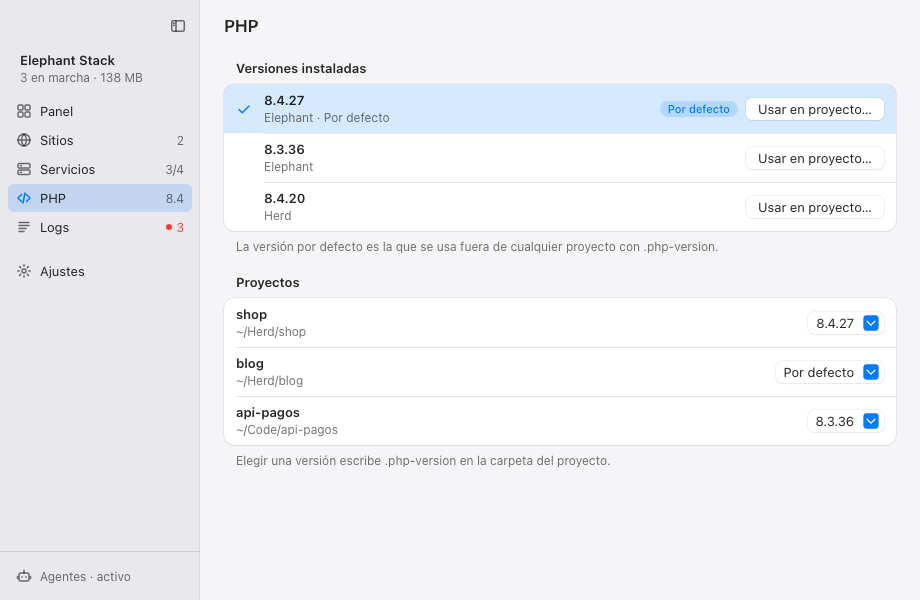
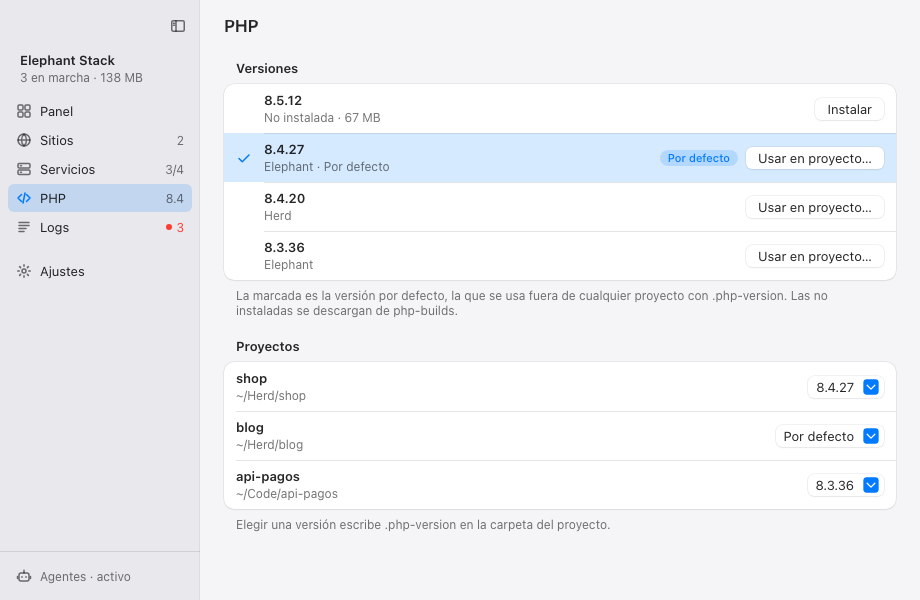
Une instaladas y disponibles en una sola lista de versiones de PHP
La vista PHP tenía dos listas. Ahora hay una, ordenada de la versión más
reciente a la más antigua: las instaladas conservan «Por defecto» y «Usar en
proyecto…», y las de php-builds que faltan solo muestran «Instalar». Una
release ya instalada no se repite. La fusión vive en src/lib/php-versions.ts,
con tests. Las capturas de referencia usan un catálogo de ejemplo.

diff --git a/src/views/Php.svelte b/src/views/Php.svelte
@@ -28,7 +28,7 @@
     versionForProject,
   } from "../lib/stores/app.svelte";
   import { formatBytes } from "../lib/format";
-  import { go } from "../lib/router.svelte";
+  import { mergePhpVersions } from "../lib/php-versions";
   import type { Catalog } from "../lib/bindings/Catalog";
   import type { Project } from "../lib/bindings/Project";
   import type { Snapshot } from "../lib/bindings/Snapshot";
@@ -111,7 +111,12 @@
   });
 
   const releases = $derived(catalog?.php ?? []);
-  const installedIds = $derived(new Set(versions.map((v) => v.id)));
+  const entries = $derived(mergePhpVersions(versions, releases));
+  const footer = $derived(
+    catalog?.offline
+      ? "Sin conexión: las versiones no instaladas son las de la última consulta."
+      : "La marcada es la versión por defecto, la que se usa fuera de cualquier proyecto con .php-version. Las no instaladas se descargan de php-builds.",
+  );
 
   async function download(version: string) {
     downloading[version] = undefined;
@@ -141,38 +146,70 @@
     <div class="content">
       {#if !snapshot}
         <Skeleton lines={4} />
-      {:else if versions.length === 0}
-        <EmptyState
-          icon="php"
-          title="No hay ninguna versión de PHP"
-          message="Instala una de las versiones disponibles de abajo o usa el asistente."
-          action={{ label: "Abrir el asistente", onclick: () => go("#/asistente") }}
-        />
       {:else}
-        <Group
-          title="Versiones instaladas"
-          footer="La versión por defecto es la que se usa fuera de cualquier proyecto con .php-version."
-        >
-          {#each versions as v (v.key)}
-            {@const active = v.key === activeKey}
-            <Row
-              title={v.id}
-              subtitle={active ? `${v.source} · Por defecto` : v.source}
-              selected={active}
-              onactivate={() => void makeDefault(v)}
-            >
-              {#snippet leading()}
-                <span class="mark" class:on={active}><Icon name="check" /></span>
-              {/snippet}
-              {#snippet trailing()}
-                {#if active}<Badge tone="accent" label="Por defecto" />{/if}
-                <Button onclick={() => void useInProject(v)}>
-                  Usar en proyecto…<span class="visually-hidden"> (PHP {v.id})</span>
-                </Button>
-              {/snippet}
-            </Row>
-          {/each}
-        </Group>
+        {#if entries.length === 0 && !catalogLoading}
+          <EmptyState
+            icon="php"
+            title="No hay ninguna versión de PHP"
+            message="No hay versiones instaladas y no se ha podido consultar las disponibles."
+            action={{ label: "Reintentar", onclick: () => void loadCatalog() }}
+          />
+        {:else}
+          <Group title="Versiones" footer={footer}>
+            {#each entries as e (e.key)}
+              {#if e.kind === "installed"}
+                {@const v = e.version}
+                {@const active = v.key === activeKey}
+                <Row
+                  title={v.id}
+                  subtitle={active ? `${v.source} · Por defecto` : v.source}
+                  selected={active}
+                  onactivate={() => void makeDefault(v)}
+                >
+                  {#snippet leading()}
+                    <span class="mark" class:on={active}><Icon name="check" /></span>
+                  {/snippet}
+                  {#snippet trailing()}
+                    {#if active}<Badge tone="accent" label="Por defecto" />{/if}
+                    <Button onclick={() => void useInProject(v)}>
+                      Usar en proyecto…<span class="visually-hidden"> (PHP {v.id})</span>
+                    </Button>
+                  {/snippet}
+                </Row>
+              {:else}
+                {@const r = e.release}
+                <Row title={r.version} subtitle={`No instalada · ${formatBytes(r.size)}`}>
+                  {#snippet leading()}
+                    <span class="mark"><Icon name="check" /></span>
+                  {/snippet}
+                  {#snippet trailing()}
+                    {#if r.version in downloading}
+                      <ProgressRing value={downloading[r.version]} label={`Instalando PHP ${r.version}`} />
+                    {:else}
+                      <Button onclick={() => void download(r.version)}>
+                        Instalar<span class="visually-hidden"> PHP {r.version}</span>
+                      </Button>
+                    {/if}
+                  {/snippet}
+                </Row>
+              {/if}
+            {/each}
+            {#if releases.length === 0}
+              {#if catalogLoading}
+                <Skeleton lines={1} />
+              {:else}
+                <Row
+                  title="No se pudo consultar las versiones disponibles"
+                  subtitle="Comprueba la conexión y vuelve a intentarlo en unos minutos."
+                >
+                  {#snippet trailing()}
+                    <Button onclick={() => void loadCatalog()}>Reintentar</Button>
+                  {/snippet}
+                </Row>
+              {/if}
+            {/if}
+          </Group>
+        {/if}
 
         {#if projects.length > 0}
           <Group title="Proyectos" footer="Elegir una versión escribe .php-version en la carpeta del proyecto.">
@@ -191,48 +228,6 @@
             {/each}
           </Group>
         {/if}
-      {/if}
-
-      {#if snapshot}
-        <Group
-          title="Disponibles para instalar"
-          footer={catalog?.offline
-            ? "Sin conexión: se muestran las versiones que había la última vez."
-            : "Versiones de php-builds, con las extensiones que necesita Laravel."}
-        >
-          {#if releases.length === 0}
-            {#if catalogLoading}
-              <Skeleton lines={3} />
-            {:else}
-              <Row
-                title="No se pudo consultar las versiones"
-                subtitle="Comprueba la conexión y vuelve a intentarlo en unos minutos."
-              >
-                {#snippet trailing()}
-                  <Button onclick={() => void loadCatalog()}>Reintentar</Button>
-                {/snippet}
-              </Row>
-            {/if}
-          {:else}
-            {#each releases as r (r.version)}
-              {@const installed = installedIds.has(r.version)}
-              {@const progress = r.version in downloading}
-              <Row title={`PHP ${r.version}`} subtitle={formatBytes(r.size)}>
-                {#snippet trailing()}
-                  {#if installed}
-                    <Badge tone="green" label="Instalada" />
-                  {:else if progress}
-                    <ProgressRing value={downloading[r.version]} label={`Instalando PHP ${r.version}`} />
-                  {:else}
-                    <Button onclick={() => void download(r.version)}>
-                      Instalar<span class="visually-hidden"> PHP {r.version}</span>
-                    </Button>
-                  {/if}
-                {/snippet}
-              </Row>
-            {/each}
-          {/if}
-        </Group>
       {/if}
     </div>
   </div>

diff --git a/src/lib/php-versions.test.ts b/src/lib/php-versions.test.ts
@@ -1,0 +1,53 @@
+import { describe, expect, it } from "vitest";
+import { compareVersions, mergePhpVersions } from "./php-versions";
+import type { PhpRelease } from "./bindings/PhpRelease";
+import type { VersionInfo } from "./bindings/VersionInfo";
+
+const release = (version: string): PhpRelease => ({
+  version,
+  url: `https://example.test/php-${version}.tar.gz`,
+  size: 1000,
+  checksum_url: `https://example.test/php-${version}.tar.gz.sha256`,
+});
+
+const installed: VersionInfo[] = [
+  { key: "8.4.27", id: "8.4.27", source: "Elephant Stack" },
+  { key: "8.4@Herd", id: "8.4", source: "Herd" },
+];
+
+describe("mergePhpVersions", () => {
+  it("lista cada versión una sola vez, de la más reciente a la más antigua", () => {
+    const entries = mergePhpVersions(installed, [release("8.5.12"), release("8.4.27"), release("8.3.36")]);
+    expect(entries.map((e) => `${e.kind}:${e.id}`)).toEqual([
+      "available:8.5.12",
+      "installed:8.4.27",
+      "installed:8.4",
+      "available:8.3.36",
+    ]);
+  });
+
+  it("asocia la release a la versión instalada en lugar de repetirla", () => {
+    const entries = mergePhpVersions(installed, [release("8.4.27")]);
+    const own = entries.find((e) => e.id === "8.4.27");
+    expect(own?.kind).toBe("installed");
+    expect(own?.release?.version).toBe("8.4.27");
+    expect(entries.filter((e) => e.id === "8.4.27")).toHaveLength(1);
+  });
+
+  it("muestra las instaladas aunque no haya catálogo", () => {
+    expect(mergePhpVersions(installed, []).map((e) => e.kind)).toEqual(["installed", "installed"]);
+  });
+
+  it("muestra las disponibles aunque no haya ninguna instalada", () => {
+    expect(mergePhpVersions([], [release("8.3.36")])).toEqual([
+      expect.objectContaining({ kind: "available", id: "8.3.36", key: "release:8.3.36" }),
+    ]);
+  });
+});
+
+describe("compareVersions", () => {
+  it("ordena numéricamente y deja la rama sin parche detrás de sus parches", () => {
+    const ids = ["8.4", "8.10.0", "8.4.27", "8.5.12"].sort(compareVersions);
+    expect(ids).toEqual(["8.10.0", "8.5.12", "8.4.27", "8.4"]);
+  });
+});

diff --git a/src/lib/php-versions.ts b/src/lib/php-versions.ts
@@ -1,0 +1,53 @@
+// Una sola lista de versiones de PHP: las instaladas (propias o de Herd) y las
+// de php-builds que aún no están instaladas.
+
+import type { PhpRelease } from "./bindings/PhpRelease";
+import type { VersionInfo } from "./bindings/VersionInfo";
+
+export type PhpEntry =
+  | { kind: "installed"; key: string; id: string; version: VersionInfo; release: PhpRelease | null }
+  | { kind: "available"; key: string; id: string; release: PhpRelease };
+
+function versionKey(id: string): number[] {
+  return id.split(".").map((part) => Number.parseInt(part, 10) || 0);
+}
+
+/** De la más reciente a la más antigua; `8.4` (Herd) va justo detrás de las 8.4.x. */
+export function compareVersions(a: string, b: string): number {
+  const ka = versionKey(a);
+  const kb = versionKey(b);
+  for (let i = 0; i < Math.max(ka.length, kb.length); i++) {
+    const diff = (kb[i] ?? -1) - (ka[i] ?? -1);
+    if (diff !== 0) return diff;
+  }
+  return 0;
+}
+
+/**
+ * Une instaladas y disponibles. Una release cuya versión ya está instalada no
+ * se repite: se asocia a la fila instalada. La `8.4` de Herd es otra
+ * instalación distinta de la `8.4.27` propia, así que ambas aparecen.
+ */
+export function mergePhpVersions(installed: VersionInfo[], releases: PhpRelease[]): PhpEntry[] {
+  const byVersion = new Map(releases.map((r) => [r.version, r]));
+  const installedIds = new Set(installed.map((v) => v.id));
+
+  const entries: PhpEntry[] = [
+    ...installed.map((version) => ({
+      kind: "installed" as const,
+      key: version.key,
+      id: version.id,
+      version,
+      release: byVersion.get(version.id) ?? null,
+    })),
+    ...releases
+      .filter((r) => !installedIds.has(r.version))
+      .map((release) => ({
+        kind: "available" as const,
+        key: `release:${release.version}`,
+        id: release.version,
+        release,
+      })),
+  ];
+  return entries.sort((a, b) => compareVersions(a.id, b.id) || a.key.localeCompare(b.key));
+}

diff --git a/src/dev/capturas-datos.ts b/src/dev/capturas-datos.ts
@@ -4,6 +4,7 @@
 
 import { entry, frame, summary } from "../lib/logs/fixtures";
 import { CARDS, detection } from "../lib/wizard/fixtures.test-helpers";
+import type { Catalog } from "../lib/bindings/Catalog";
 import type { Component } from "../lib/bindings/Component";
 import type { EntryDetail } from "../lib/bindings/EntryDetail";
 import type { LogEntry } from "../lib/bindings/LogEntry";
@@ -285,3 +286,18 @@ export const wizardDetection = detection({
   herd: { running: true, tld: "test", sites: 2 },
   launch_at_login: true,
 });
+
+const release = (version: string, size: number) => ({
+  version,
+  url: `https://github.com/cristiancosano/php-builds/releases/download/php-${version}/php-${version}-macos-arm64.tar.gz`,
+  size,
+  checksum_url: `https://github.com/cristiancosano/php-builds/releases/download/php-${version}/php-${version}-macos-arm64.tar.gz.sha256`,
+});
+
+// Catálogo de php-builds: la 8.5.12 aparece como no instalada y la 8.4.27 y la
+// 8.3.36 se funden con las instaladas.
+export const catalog: Catalog = {
+  php: [release("8.5.12", 67_413_472), release("8.4.27", 66_592_142), release("8.3.36", 64_000_000)],
+  composer: null,
+  offline: false,
+};

diff --git a/src/dev/capturas.ts b/src/dev/capturas.ts
@@ -41,7 +41,7 @@ const handlers: Record<string, (args: Args) => unknown> = {
   mcp_status: () => datos.mcpStatus,
   mcp_snippets: () => datos.mcpSnippets,
   mcp_activity: () => [],
-  php_catalog: () => Promise.reject(NOT_AVAILABLE),
+  php_catalog: () => datos.catalog,
 };
 
 mockIPC(
